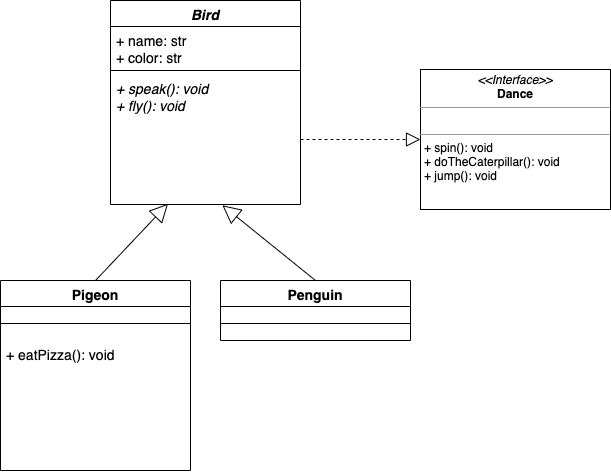
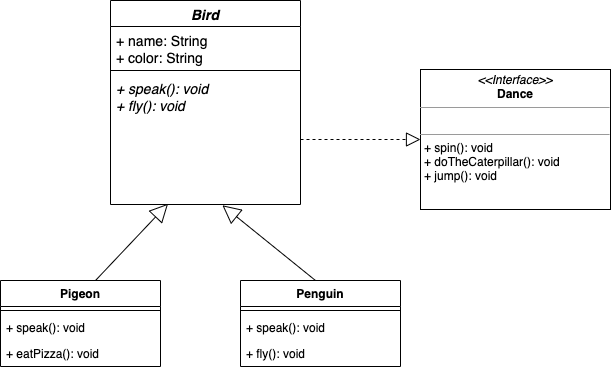
Staging/QA - Fixes misrepresentation of abstract class examples

diff --git a/Java/activity_4.md b/Java/activity_4.md
@@ -37,9 +37,10 @@ public abstract class Bird {
         this.color = color;
     }
 
-    public void speak() {
-        //To be implemented in subclasses
-    }
+    //This method is marked with Abstract keyword
+    //This means that any classes extending on Bird must implement this
+    //Abstract methods don't have a method body
+    public abstract void speak();
 
     public void fly() {
         System.out.println("Hi there! I can fly.");
@@ -63,7 +64,7 @@ myBird.fly();
 ## Exercise 4.3 - Amend your UML diagram to represent the `Bird` as an abstract class
 
 - Can you do some research to find out how to represent an abstract class in a UML diagram? 
-- Hint: It could be just a small change to the font-style of your class e.g. *italics*
+- Hint: It could be just a small change to the font-style of your class/abstract method e.g. *italics*
 
 An example solution to the diagram is available [here](../solutions/activity_4_exercise_4.3.png).
 
@@ -114,7 +115,7 @@ Delicious pizza!
 
 ## Exercise 4.6 - Add the `Penguin` class to your UML diagram
 
-- Add a `Penguin` subclass to your diagram. The `Penguin` extends the base class `Bird`.
+- Update and add a `Penguin` subclass to your diagram. The `Penguin` extends the base class `Bird` and it will override the methods `speak()` and `fly()`.
 
 An example solution to the diagram is available [here](../solutions/activity_4_exercise_4.6.png).
 

diff --git a/Java/activity_5.md b/Java/activity_5.md
@@ -82,10 +82,8 @@ public abstract class Bird implements DanceImpl {
         this.name = name;
         this.color = color;
     }
-
-    public void speak() {
-        //To be implemented in subclasses
-    }
+    
+    public abstract void speak();
 
     public void fly() {
         System.out.println("Hi there! I can fly.");
